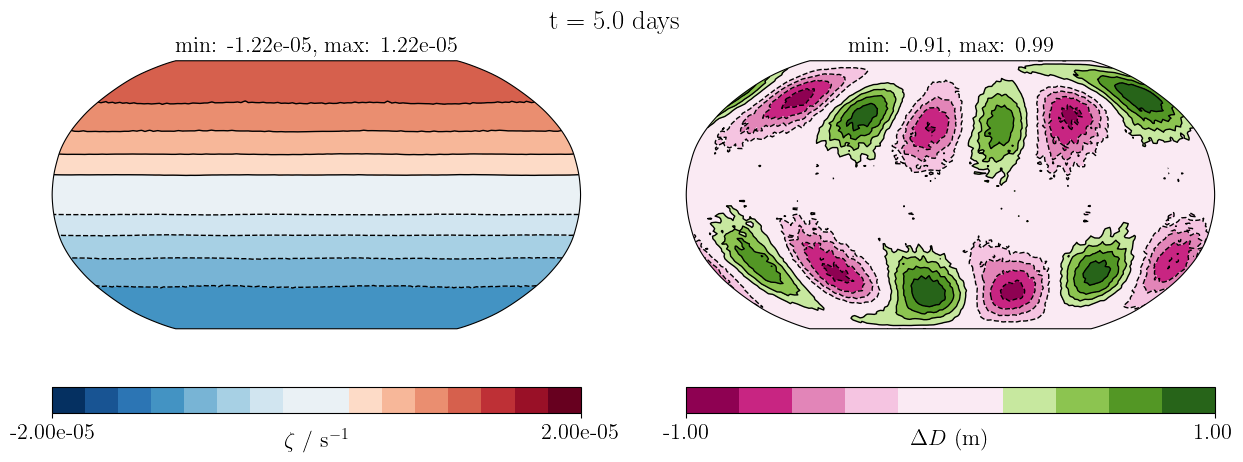
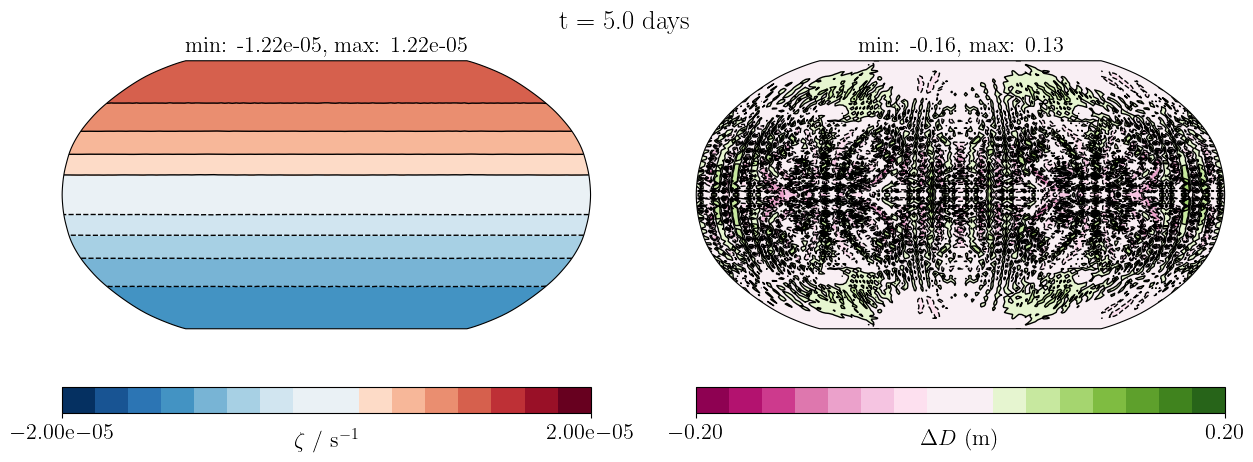
Fix broken examples (#688)

diff --git a/gusto/recovery/recovery.py b/gusto/recovery/recovery.py
@@ -10,11 +10,10 @@ from enum import Enum
 
 import ufl
 from firedrake import (BrokenElement, Constant, DirichletBC, FiniteElement,
-                       Function, FunctionSpace, Projector,
+                       Function, FunctionSpace, Projector, dot,
                        SpatialCoordinate, TensorProductElement,
                        VectorFunctionSpace, as_vector, function, interval,
-                       VectorElement, assemble)
-from firedrake.__future__ import interpolate
+                       VectorElement)
 from gusto.recovery import Averager
 from .recovery_kernels import (BoundaryRecoveryExtruded, BoundaryRecoveryHCurl,
                                BoundaryGaussianElimination)
@@ -145,14 +144,13 @@ class BoundaryRecoverer(object):
             V_broken = FunctionSpace(mesh, BrokenElement(V_inout.ufl_element()))
             self.x_DG1_wrong = Function(V_broken)
             self.x_DG1_correct = Function(V_broken)
-            self.interpolate = interpolate(self.x_inout, V_broken)
             self.averager = Averager(self.x_DG1_correct, self.x_inout)
             self.kernel = BoundaryGaussianElimination(V_broken)
 
     def apply(self):
         """Applies the boundary recovery process."""
         if self.method == BoundaryMethod.taylor:
-            self.x_DG1_wrong.assign(assemble(self.interpolate))
+            self.x_DG1_wrong.interpolate(self.x_inout)
             self.kernel.apply(self.x_DG1_wrong, self.x_DG1_correct,
                               self.act_coords, self.eff_coords, self.num_ext)
             self.averager.project()
@@ -196,6 +194,7 @@ class Recoverer(object):
         if not isinstance(x_in, (ufl.core.expr.Expr, function.Function)):
             raise ValueError("Can only recover UFL expression or Functions not '%s'" % type(x_in))
 
+        self.x_in = x_in
         self.x_out = x_out
         V_out = x_out.function_space()
         mesh = V_out.mesh()
@@ -217,17 +216,15 @@ class Recoverer(object):
         # -------------------------------------------------------------------- #
         # Set up interpolation / projection
         # -------------------------------------------------------------------- #
-        x_brok = Function(V_brok)
+        self.x_brok = Function(V_brok)
 
         self.method = method
-        if method == 'interpolate':
-            self.broken_op = lambda: assemble(interpolate(x_in, V_brok), tensor=x_brok)
-        elif method == 'project':
-            self.broken_op = Projector(x_in, x_brok)
-        else:
+        if method == 'project':
+            self.broken_op = Projector(x_in, self.x_brok)
+        elif method != 'interpolate':
             raise ValueError(f'Valid methods are "interpolate" or "project", not {method}')
 
-        self.averager = Averager(x_brok, self.x_out)
+        self.averager = Averager(self.x_brok, self.x_out)
 
         # -------------------------------------------------------------------- #
         # Set up boundary recovery
@@ -264,40 +261,48 @@ class Recoverer(object):
                     CG1 = FunctionSpace(mesh, "CG", 1)
 
                     # now, break the problem down into components
-                    x_out_scalars = []
+                    self.x_out_scalars = []
                     self.boundary_recoverers = []
                     self.interpolate_to_scalars = []
                     self.extra_averagers = []
+                    self.unit_vec = []
                     # the boundary recoverer needs to be done on a scalar fields
                     # so need to extract component and restore it after the boundary recovery is done
                     for i in range(V_out.value_size):
-                        x_out_scalars.append(Function(CG1))
-                        self.interpolate_to_scalars.append(
-                            lambda i=i: assemble(interpolate(self.x_out[i], CG1), tensor=x_out_scalars[i])
-                        )
-                        self.boundary_recoverers.append(BoundaryRecoverer(x_out_scalars[i],
+                        self.unit_vec.append(as_vector(
+                            [Constant(1.0) if j == i else Constant(0.0) for j in range(V_out.value_size)]
+                        ))
+                        self.x_out_scalars.append(Function(CG1))
+                        self.boundary_recoverers.append(BoundaryRecoverer(self.x_out_scalars[i],
                                                                           method=BoundaryMethod.taylor,
                                                                           eff_coords=eff_coords[i]))
-                    self.interpolate_to_vector = interpolate(as_vector(x_out_scalars), V_out)
+                    self.x_out_expr = self.x_out_scalars[0]*self.unit_vec[0]
+                    for i in range(1, V_out.value_size):
+                        self.x_out_expr += self.x_out_scalars[i]*self.unit_vec[i]
 
     def project(self):
         """Perform the whole recovery step."""
 
         # Initial averaging step
-        self.broken_op.project() if self.method == 'project' else self.broken_op()
+        if self.method == 'project':
+            self.broken_op.project()
+        else:
+            self.x_brok.interpolate(self.x_in)
         self.averager.project()
 
         # Boundary recovery
         if self.boundary_method is not None:
             # For vector elements, treat each component separately
             if self.vector_function_space:
-                for (interpolate_to_scalar, boundary_recoverer) \
-                        in zip(self.interpolate_to_scalars, self.boundary_recoverers):
-                    interpolate_to_scalar()
+                # TODO: something about interpolating to scalars and then back
+                # is making the lowest-order bubble tests assymetric!
+                for i, boundary_recoverer in enumerate(self.boundary_recoverers):
+                    self.x_out_scalars[i].interpolate(dot(self.unit_vec[i], self.x_out))
+
                     # Correct at boundaries
                     boundary_recoverer.apply()
                 # Combine the components to obtain the vector field
-                self.x_out.assign(assemble(self.interpolate_to_vector))
+                self.x_out.interpolate(as_vector(self.x_out_expr))
             else:
                 # Extrapolate at boundaries
                 self.boundary_recoverer.apply()

diff --git a/gusto/diagnostics/diagnostics.py b/gusto/diagnostics/diagnostics.py
@@ -651,14 +651,10 @@ class ZComponent(VectorComponent):
 
 class SphericalComponent(VectorComponent):
     """Base diagnostic for computing spherical-polar components of fields."""
-    def __init__(self, name, rotated_pole=None, space=None, method='interpolate'):
+    def __init__(self, name, space=None, method='interpolate'):
         """
         Args:
             name (str): name of the field to compute the component of.
-            rotated_pole (tuple of floats, optional): a tuple of floats
-                (lon, lat) of the new pole, in the original coordinate system.
-                The longitude and latitude must be expressed in radians.
-                Defaults to None, corresponding to a pole of (0, pi/2).
             space (:class:`FunctionSpace`, optional): the function space to
                 evaluate the diagnostic field in. Defaults to None, in which
                 case the default space is the domain's DG space.
@@ -666,7 +662,6 @@ class SphericalComponent(VectorComponent):
                 for this diagnostic. Valid options are 'interpolate', 'project',
                 'assign' and 'solve'. Defaults to 'interpolate'.
         """
-        self.rotated_pole = (0.0, pi/2) if rotated_pole is None else rotated_pole
         super().__init__(name=name, space=space, method=method)
 
     def _check_args(self, domain, field):
@@ -705,7 +700,8 @@ class MeridionalComponent(SphericalComponent):
         f = state_fields(self.fname)
         self._check_args(domain, f)
         xyz = SpatialCoordinate(domain.mesh)
-        _, e_lat, _ = rotated_lonlatr_vectors(xyz, self.rotated_pole)
+        pole = (0.0, pi/2)
+        _, e_lat, _ = rotated_lonlatr_vectors(xyz, pole)
         super().setup(domain, state_fields, e_lat)
 
 
@@ -727,7 +723,8 @@ class ZonalComponent(SphericalComponent):
         f = state_fields(self.fname)
         self._check_args(domain, f)
         xyz = SpatialCoordinate(domain.mesh)
-        e_lon, _, _ = rotated_lonlatr_vectors(xyz, self.rotated_pole)
+        pole = (0.0, pi/2)
+        e_lon, _, _ = rotated_lonlatr_vectors(xyz, pole)
         super().setup(domain, state_fields, e_lon)
 
 
@@ -749,7 +746,8 @@ class RadialComponent(SphericalComponent):
         f = state_fields(self.fname)
         self._check_args(domain, f)
         xyz = SpatialCoordinate(domain.mesh)
-        _, _, e_r = rotated_lonlatr_vectors(xyz, self.rotated_pole)
+        pole = (0.0, pi/2)
+        _, _, e_r = rotated_lonlatr_vectors(xyz, pole)
         super().setup(domain, state_fields, e_r)
 
 

diff --git a/examples/shallow_water/williamson_2.py b/examples/shallow_water/williamson_2.py
@@ -8,14 +8,14 @@ The example here uses the icosahedral sphere mesh and degree 1 spaces.
 """
 
 from argparse import ArgumentParser, ArgumentDefaultsHelpFormatter
-from firedrake import SpatialCoordinate, sin, cos, pi, Function
+from firedrake import SpatialCoordinate, sin, cos, pi, Function, Constant
 from gusto import (
     Domain, IO, OutputParameters, SemiImplicitQuasiNewton, SSPRK3, DGUpwind,
     TrapeziumRule, ShallowWaterParameters, ShallowWaterEquations,
     RelativeVorticity, PotentialVorticity, SteadyStateError,
     ShallowWaterKineticEnergy, ShallowWaterPotentialEnergy,
-    ShallowWaterPotentialEnstrophy, rotated_lonlatr_coords,
-    ZonalComponent, MeridionalComponent, rotated_lonlatr_vectors,
+    ShallowWaterPotentialEnstrophy, lonlatr_from_xyz,
+    ZonalComponent, MeridionalComponent, xyz_vector_from_lonlatr,
     GeneralIcosahedralSphereMesh, SubcyclingOptions
 )
 
@@ -42,7 +42,6 @@ def williamson_2(
 
     radius = 6371220.                  # planetary radius (m)
     mean_depth = 5960.                 # reference depth (m)
-    rotate_pole_to = (0.0, pi/3)       # location of North pole of mesh
     u_max = 2*pi*radius/(12*24*60*60)  # Max amplitude of the zonal wind (m/s)
 
     # ------------------------------------------------------------------------ #
@@ -58,14 +57,16 @@ def williamson_2(
 
     # Domain
     mesh = GeneralIcosahedralSphereMesh(radius, ncells_per_edge, degree=2)
-    domain = Domain(mesh, dt, 'BDM', element_order, rotated_pole=rotate_pole_to)
+    domain = Domain(mesh, dt, 'BDM', element_order)
     xyz = SpatialCoordinate(mesh)
 
     # Equation
     parameters = ShallowWaterParameters(mesh, H=mean_depth)
     Omega = parameters.Omega
-    _, lat, _ = rotated_lonlatr_coords(xyz, rotate_pole_to)
-    e_lon, _, _ = rotated_lonlatr_vectors(xyz, rotate_pole_to)
+    _, lat, _ = lonlatr_from_xyz(xyz[0], xyz[1], xyz[2])
+    e_lon = xyz_vector_from_lonlatr(
+        Constant(1.0), Constant(0.0), Constant(0.0), xyz
+    )
 
     eqns = ShallowWaterEquations(
         domain, parameters, u_transport_option=u_eqn_type)
@@ -81,8 +82,8 @@ def williamson_2(
         ShallowWaterPotentialEnergy(parameters),
         ShallowWaterPotentialEnstrophy(),
         SteadyStateError('u'), SteadyStateError('D'),
-        MeridionalComponent('u', rotate_pole_to),
-        ZonalComponent('u', rotate_pole_to)
+        MeridionalComponent('u'),
+        ZonalComponent('u')
     ]
     io = IO(domain, output, diagnostic_fields=diagnostic_fields)
 

diff --git a/gusto/core/coordinates.py b/gusto/core/coordinates.py
@@ -3,7 +3,7 @@ This file provides a coordinate object, dependent on the mesh.
 Coordinate fields are stored in specified VectorFunctionSpaces.
 """
 
-from gusto.core.coord_transforms import lonlatr_from_xyz, rotated_lonlatr_coords
+from gusto.core.coord_transforms import lonlatr_from_xyz
 from gusto.core.logging import logger
 from firedrake import SpatialCoordinate, Function
 import numpy as np
@@ -14,18 +14,13 @@ class Coordinates(object):
     """
     An object for holding and setting up coordinate fields.
     """
-    def __init__(self, mesh, on_sphere=False, rotated_pole=None, radius=None):
+    def __init__(self, mesh, on_sphere=False, radius=None):
         """
         Args:
             mesh (:class:`Mesh`): the model's domain object.
             on_sphere (bool, optional): whether the domain is on the surface of
                 a sphere. If False, the domain is assumed to be Cartesian.
                 Defaults to False.
-            rotated_pole (tuple, optional): a tuple of floats (lon, lat) of the
-                location to use as the north pole in a spherical coordinate
-                system. These are expressed in the original coordinate system.
-                The longitude and latitude must be expressed in radians.
-                Defaults to None. This is unused for non-spherical domains.
             radius (float, optional): the radius of a spherical domain. Defaults
                 to None. This is unused for non-spherical domains.
         """
@@ -38,10 +33,7 @@ class Coordinates(object):
 
         if on_sphere:
             xyz = SpatialCoordinate(mesh)
-            if rotated_pole is not None:
-                lon, lat, r = rotated_lonlatr_coords(xyz, rotated_pole)
-            else:
-                lon, lat, r = lonlatr_from_xyz(xyz[0], xyz[1], xyz[2])
+            lon, lat, r = lonlatr_from_xyz(xyz[0], xyz[1], xyz[2])
 
             if mesh.extruded:
                 self.coords = (lon, lat, r-radius)

diff --git a/gusto/core/domain.py b/gusto/core/domain.py
@@ -28,7 +28,7 @@ class Domain(object):
     """
     def __init__(self, mesh, dt, family, degree=None,
                  horizontal_degree=None, vertical_degree=None,
-                 rotated_pole=None, max_quad_degree=None):
+                 max_quad_degree=None):
         """
         Args:
             mesh (:class:`Mesh`): the model's mesh.
@@ -44,11 +44,6 @@ class Domain(object):
                 horizontal part of the DG space. Defaults to None.
             vertical_degree (int, optional): the element degree used for the
                 vertical part of the DG space. Defaults to None.
-            rotated_pole (tuple, optional): a tuple of floats (lon, lat) of the
-                location to use as the north pole in a spherical coordinate
-                system. These are expressed in the original coordinate system.
-                The longitude and latitude must be expressed in radians.
-                Defaults to None. This is unused for non-spherical domains.
             max_quad_degree (int, optional): the maximum quadrature degree to
                 use in certain non-linear terms (e.g. when using an expression
                 for the Exner pressure). Defaults to None, in which case this
@@ -156,8 +151,7 @@ class Domain(object):
         # Set up coordinates
         # -------------------------------------------------------------------- #
 
-        self.coords = Coordinates(mesh, on_sphere=self.on_sphere,
-                                  rotated_pole=rotated_pole, radius=radius)
+        self.coords = Coordinates(mesh, on_sphere=self.on_sphere, radius=radius)
         # Set up DG1 equispaced space, used for making metadata
         _ = self.spaces('DG1_equispaced')
         self.coords.register_space(self, 'DG1_equispaced')

diff --git a/unit-tests/recovery_tests/test_recovery_2d_vert_slice.py b/unit-tests/recovery_tests/test_recovery_2d_vert_slice.py
@@ -82,7 +82,7 @@ def test_vertical_slice_recovery(geometry, mesh, expr):
     # our actual theta and rho and v
     rho_CG1_true = Function(CG1).interpolate(expr)
     theta_CG1_true = Function(CG1).interpolate(expr)
-    v_CG1_true = Function(vec_CG1).interpolate(as_vector([expr, expr]))
+    v_CG1_true = Function(vec_CG1).interpolate(as_vector([expr, -3.0*expr]))
     rho_Vt_true = Function(Vt).interpolate(expr)
 
     # make the initial fields by projecting expressions into the lowest order spaces
@@ -90,7 +90,7 @@ def test_vertical_slice_recovery(geometry, mesh, expr):
     rho_CG1 = Function(CG1)
     theta_Vt = Function(Vt).interpolate(expr)
     theta_CG1 = Function(CG1)
-    v_Vu = Function(Vu).project(as_vector([expr, expr]))
+    v_Vu = Function(Vu).project(as_vector([expr, -3.0*expr]))
     v_CG1 = Function(vec_CG1)
     rho_Vt = Function(Vt)
 

diff --git a/examples/compressible_euler/unsaturated_bubble.py b/examples/compressible_euler/unsaturated_bubble.py
@@ -102,8 +102,7 @@ def unsaturated_bubble(
     io = IO(domain, output, diagnostic_fields=diagnostic_fields)
 
     # Transport schemes -- specify options for using recovery wrapper
-    boundary_methods = {'DG': BoundaryMethod.taylor,
-                        'HDiv': BoundaryMethod.taylor}
+    boundary_methods = {'DG': BoundaryMethod.taylor}
 
     recovery_spaces = RecoverySpaces(domain, boundary_method=boundary_methods, use_vector_spaces=True)
 
@@ -129,7 +128,7 @@ def unsaturated_bubble(
     ]
 
     # Linear solver
-    linear_solver = CompressibleSolver(eqns)
+    linear_solver = CompressibleSolver(eqns, tau_values={'rho': 1.0, 'theta': 1.0})
 
     # Physics schemes
     Vt = domain.spaces('theta')

diff --git a/examples/compressible_euler/dry_bryan_fritsch.py b/examples/compressible_euler/dry_bryan_fritsch.py
@@ -81,8 +81,7 @@ def dry_bryan_fritsch(
     io = IO(domain, output, diagnostic_fields=diagnostic_fields)
 
     # Transport schemes -- set up options for using recovery wrapper
-    boundary_methods = {'DG': BoundaryMethod.taylor,
-                        'HDiv': BoundaryMethod.taylor}
+    boundary_methods = {'DG': BoundaryMethod.taylor}
 
     recovery_spaces = RecoverySpaces(
         domain, boundary_methods, use_vector_spaces=True
@@ -103,7 +102,7 @@ def dry_bryan_fritsch(
     ]
 
     # Linear solver
-    linear_solver = CompressibleSolver(eqns)
+    linear_solver = CompressibleSolver(eqns, tau_values={'rho': 1.0, 'theta': 1.0})
 
     # Time stepper
     stepper = SemiImplicitQuasiNewton(
